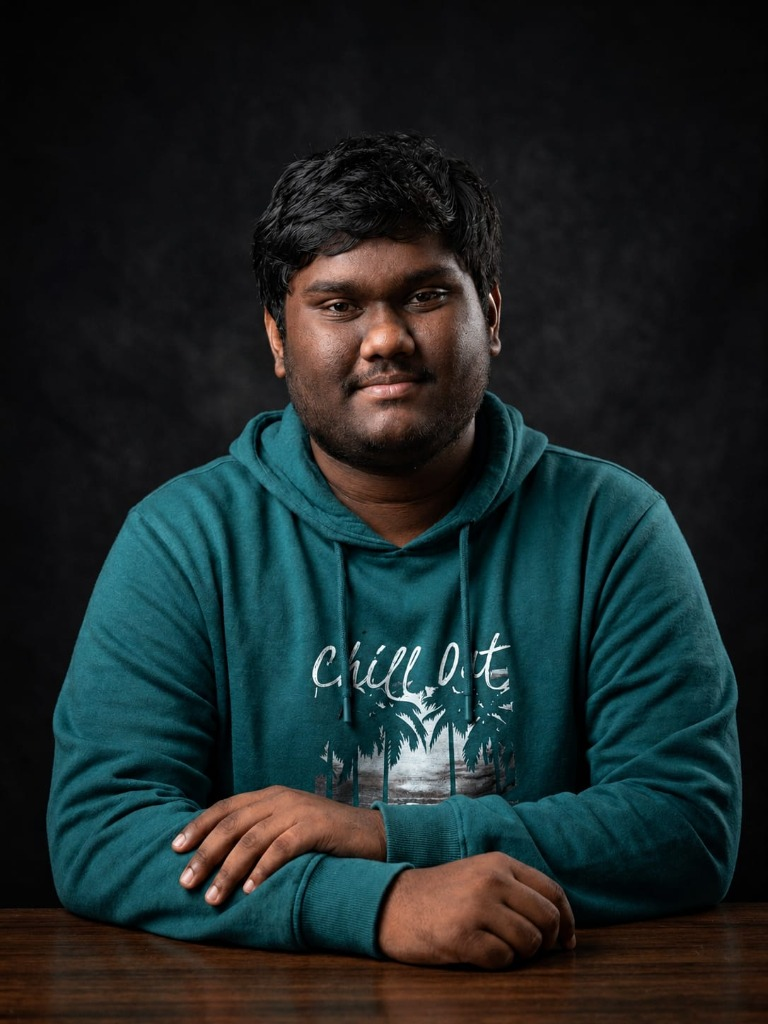
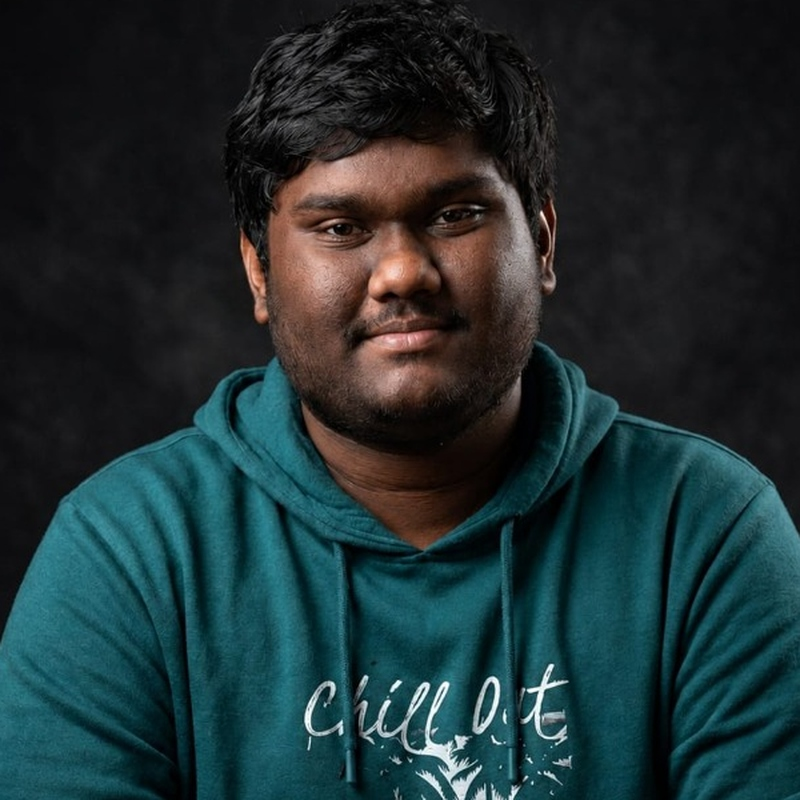
fix-profile-photo-true-square-and-edge-to-edge-circular-crop

diff --git a/styles.css b/styles.css
@@ -932,7 +932,7 @@ body.loaded .preloader {
   position: absolute;
   inset: 20px;
   border-radius: 50%;
-  background: var(--card-solid);
+  background: #000000;
   border: 2px solid #ffffff;
   display: flex;
   align-items: center;
@@ -946,8 +946,9 @@ body.loaded .preloader {
 .avatar-photo {
   width: 100%;
   height: 100%;
+  aspect-ratio: 1 / 1;
   object-fit: cover;
-  object-position: center 20%;
+  object-position: center center;
   border-radius: 50%;
   display: block;
   position: relative;
@@ -1245,18 +1246,20 @@ body.loaded .preloader {
 }
 
 .about-avatar {
-  width: 136px;
-  height: 136px;
-  min-width: 136px;
-  min-height: 136px;
-  max-width: 136px;
-  max-height: 136px;
+  width: 140px;
+  height: 140px;
+  min-width: 140px;
+  min-height: 140px;
+  max-width: 140px;
+  max-height: 140px;
   aspect-ratio: 1 / 1;
-  margin: 0 auto 18px;
+  margin: 0 auto 20px;
   border-radius: 50%;
   flex-shrink: 0;
-  display: grid;
-  place-items: center;
+  display: flex;
+  align-items: center;
+  justify-content: center;
+  background: #000000;
   border: 3px solid #ffffff;
   box-shadow: 0 14px 36px -8px rgba(255, 255, 255, 0.3);
   position: relative;
@@ -1265,8 +1268,9 @@ body.loaded .preloader {
 }
 
 [data-theme="light"] .about-avatar {
+  background: #000000;
   border-color: #000000;
-  box-shadow: 0 14px 36px -8px rgba(0, 0, 0, 0.22);
+  box-shadow: 0 14px 36px -8px rgba(0, 0, 0, 0.25);
 }
 
 .about-photo {
@@ -1274,7 +1278,7 @@ body.loaded .preloader {
   height: 100%;
   aspect-ratio: 1 / 1;
   object-fit: cover;
-  object-position: center 15%;
+  object-position: center center;
   border-radius: 50%;
   display: block;
 }
